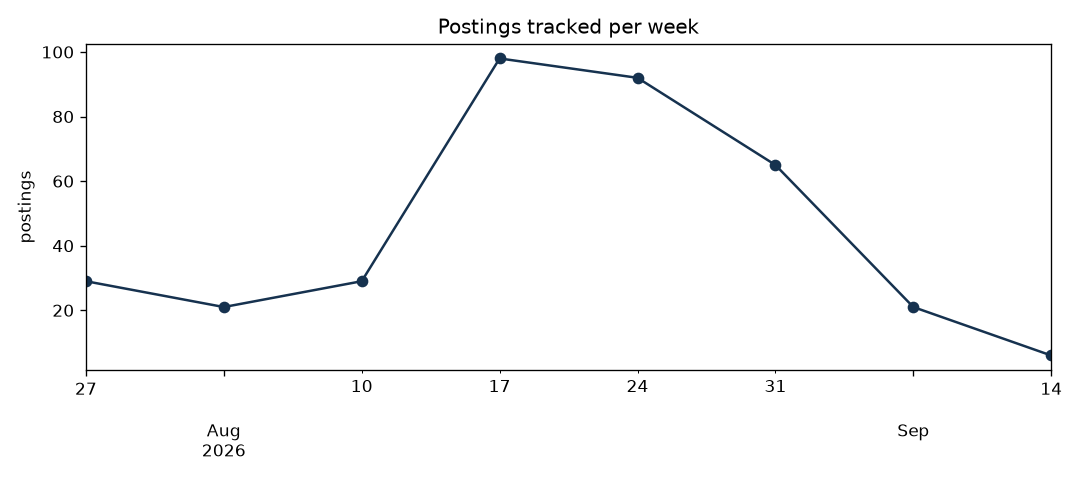
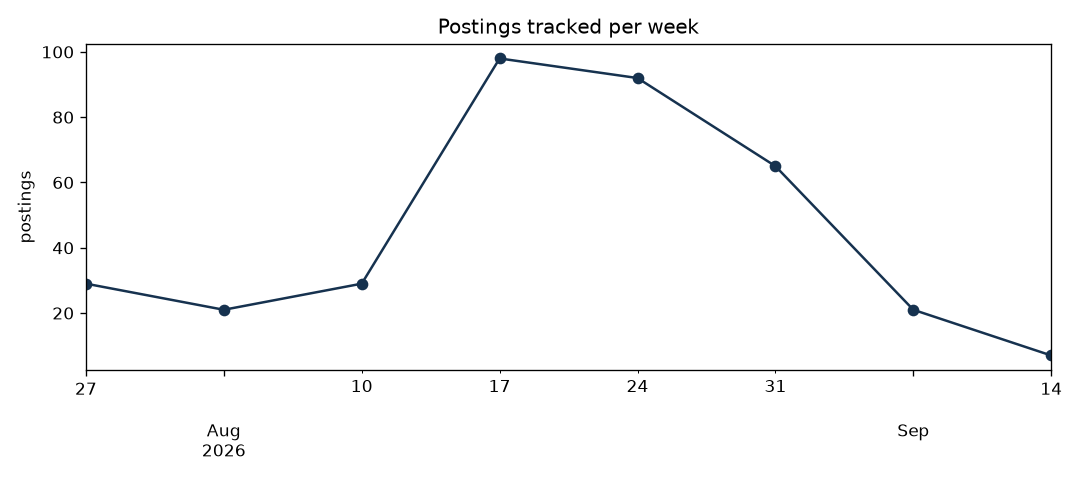
Daily data update

diff --git a/README.md b/README.md
@@ -13,13 +13,13 @@ reporting end to end.
 ## Dashboard
 
 <!-- dashboard:start -->
-*Last updated: 2026-09-17 17:28 UTC*
+*Last updated: 2026-09-18 16:56 UTC*
 
 | | |
 |---|---|
-| Postings tracked | 361 |
-| Companies | 303 |
-| New since last run | 3 |
+| Postings tracked | 362 |
+| Companies | 304 |
+| New since last run | 1 |
 | Data/ML-related share | 28% |
 
 ![Postings per week](reports/figures/postings_per_week.png)
